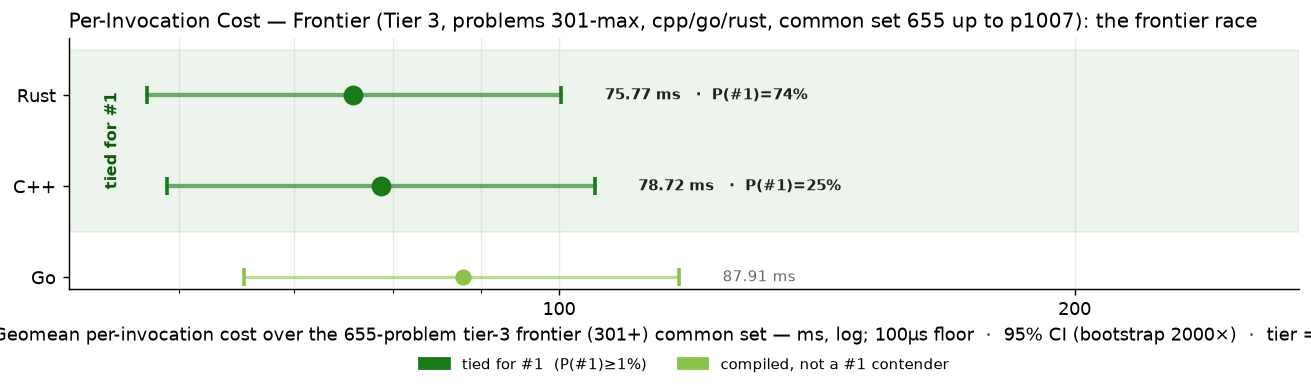
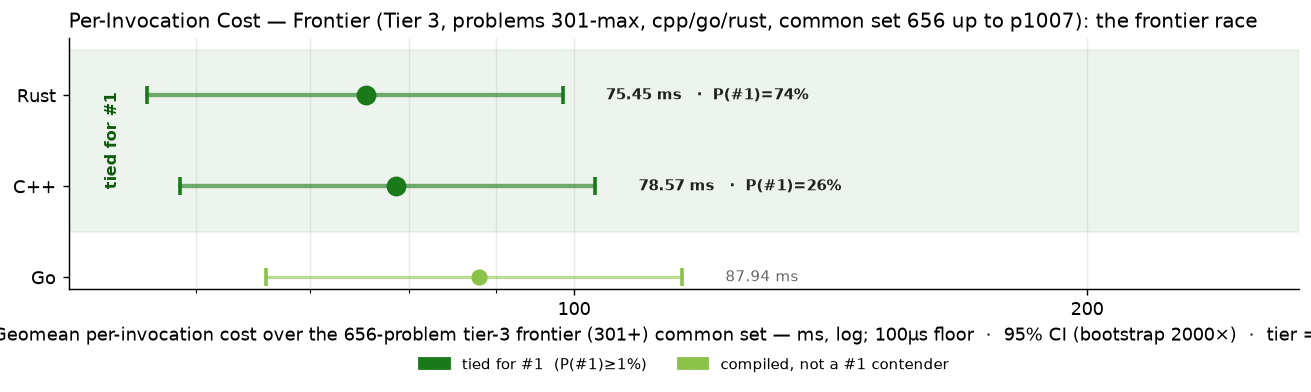
cpp p0807

diff --git a/RESULTS.md b/RESULTS.md
@@ -1,6 +1,6 @@
 # Project Euler — Cross-Language Benchmarks
 
-> **Scope: 4521 in-scope cells across 1007 problems × tiered languages — 4417 measured (97.7% coverage).**
+> **Scope: 4521 in-scope cells across 1007 problems × tiered languages — 4418 measured (97.7% coverage).**
 > The cross-language ranking below is computed over the **200-problem common set** (problems in 1-200 where every language has a passing measurement) — the apples-to-apples Foundation comparison surface.  Per-tier rankings and coverage detail appear further below.
 > Growing carefully — each new problem and language is audited for state-leak
 > safety, verified for answer correctness, and added only when it cleanly fits the
@@ -70,15 +70,15 @@ Same scatter as the Foundation chart, restricted to the tier-2 active languages 
 
 The frontier verification trio — C++, Go, Rust — on problems above 300. 3-way cross-language agreement is the verification protocol (strictly stronger than 2-way; see JOURNEY.md "Tier Reframing" episode for the p254 lesson that motivated it). Python and Zig are explicitly out of this tier — python's wall cost makes it impractical at level 5+, and zig's role caps at Tier 2.
 
-### Per-Invocation Cost (Common Set, 655 of ≤707 problems in scope)
+### Per-Invocation Cost (Common Set, 656 of ≤707 problems in scope)
 
 ![Per-Invocation Cost — Tier 3](charts/per_iter_total_tier3.png)
 
-| Rank | Language | Geomean (655-problem common set) | Total (sum) | Lines of code | vs Fastest |
+| Rank | Language | Geomean (656-problem common set) | Total (sum) | Lines of code | vs Fastest |
 |------|----------|--------------------:|------------:|--------------:|-----------:|
-| 1 | **Rust** | 75.77 ms | 1760.80 s | 131,799 | 1.00× |
-| 2 | **C++** | 78.72 ms | 1902.98 s | 95,820 | 1.04× |
-| 3 | **Go** | 87.91 ms | 2131.19 s | 122,026 | 1.16× |
+| 1 | **Rust** | 75.45 ms | 1760.80 s | 132,131 | 1.00× |
+| 2 | **C++** | 78.57 ms | 1903.01 s | 96,008 | 1.04× |
+| 3 | **Go** | 87.94 ms | 2131.30 s | 122,214 | 1.17× |
 
 ### Speed vs Code Size
 
@@ -264,7 +264,7 @@ table never silently mixes versions (METHODOLOGY.md §4).  Current state of the
 |----------|-----------|------:|---------------|
 | **ARM64** | `Apple clang version 21.0.0 (clang-2100.1.1.101)` | 200 | 2026-07-30 |
 | **C** | `Apple clang version 21.0.0 (clang-2100.1.1.101)` | 200 | 2026-07-30 |
-| **C++** | `Apple clang version 21.0.0 (clang-2100.1.1.101)` | 956 | 2026-09-06 |
+| **C++** | `Apple clang version 21.0.0 (clang-2100.1.1.101)` | 957 | 2026-09-06 |
 | **C#** | `10.0.101` | 200 | 2026-07-30 |
 | **Go** | `go version go1.26.5 darwin/arm64` | 959 | 2026-09-06 |
 | **Java** | `openjdk version "21.0.2" 2024-01-16 LTS` | 200 | 2026-07-30 |

diff --git a/per_problem/per_problem_0801-0900.md b/per_problem/per_problem_0801-0900.md
@@ -14,7 +14,7 @@ in tier-1 display order (native → managed → interpreted).
 | **p0804** | 225.33 ms | 250.71 ms | 192.56 ms |
 | **p0805** | 113.57 ms | 27.52 ms | 18.04 ms |
 | **p0806** | 155.39 ms | 220.58 ms | 143.55 ms |
-| **p0807** | — | 4.86 ms | 109.95 ms |
+| **p0807** | 23.54 ms | 4.86 ms | 109.95 ms |
 | **p0808** | 15.91 ms | 169.86 ms | — |
 | **p0809** | 23.3 µs | 12.22 ms | 60.34 ms |
 | **p0810** | 9.57 s | 2.00 s | 8.93 s |
